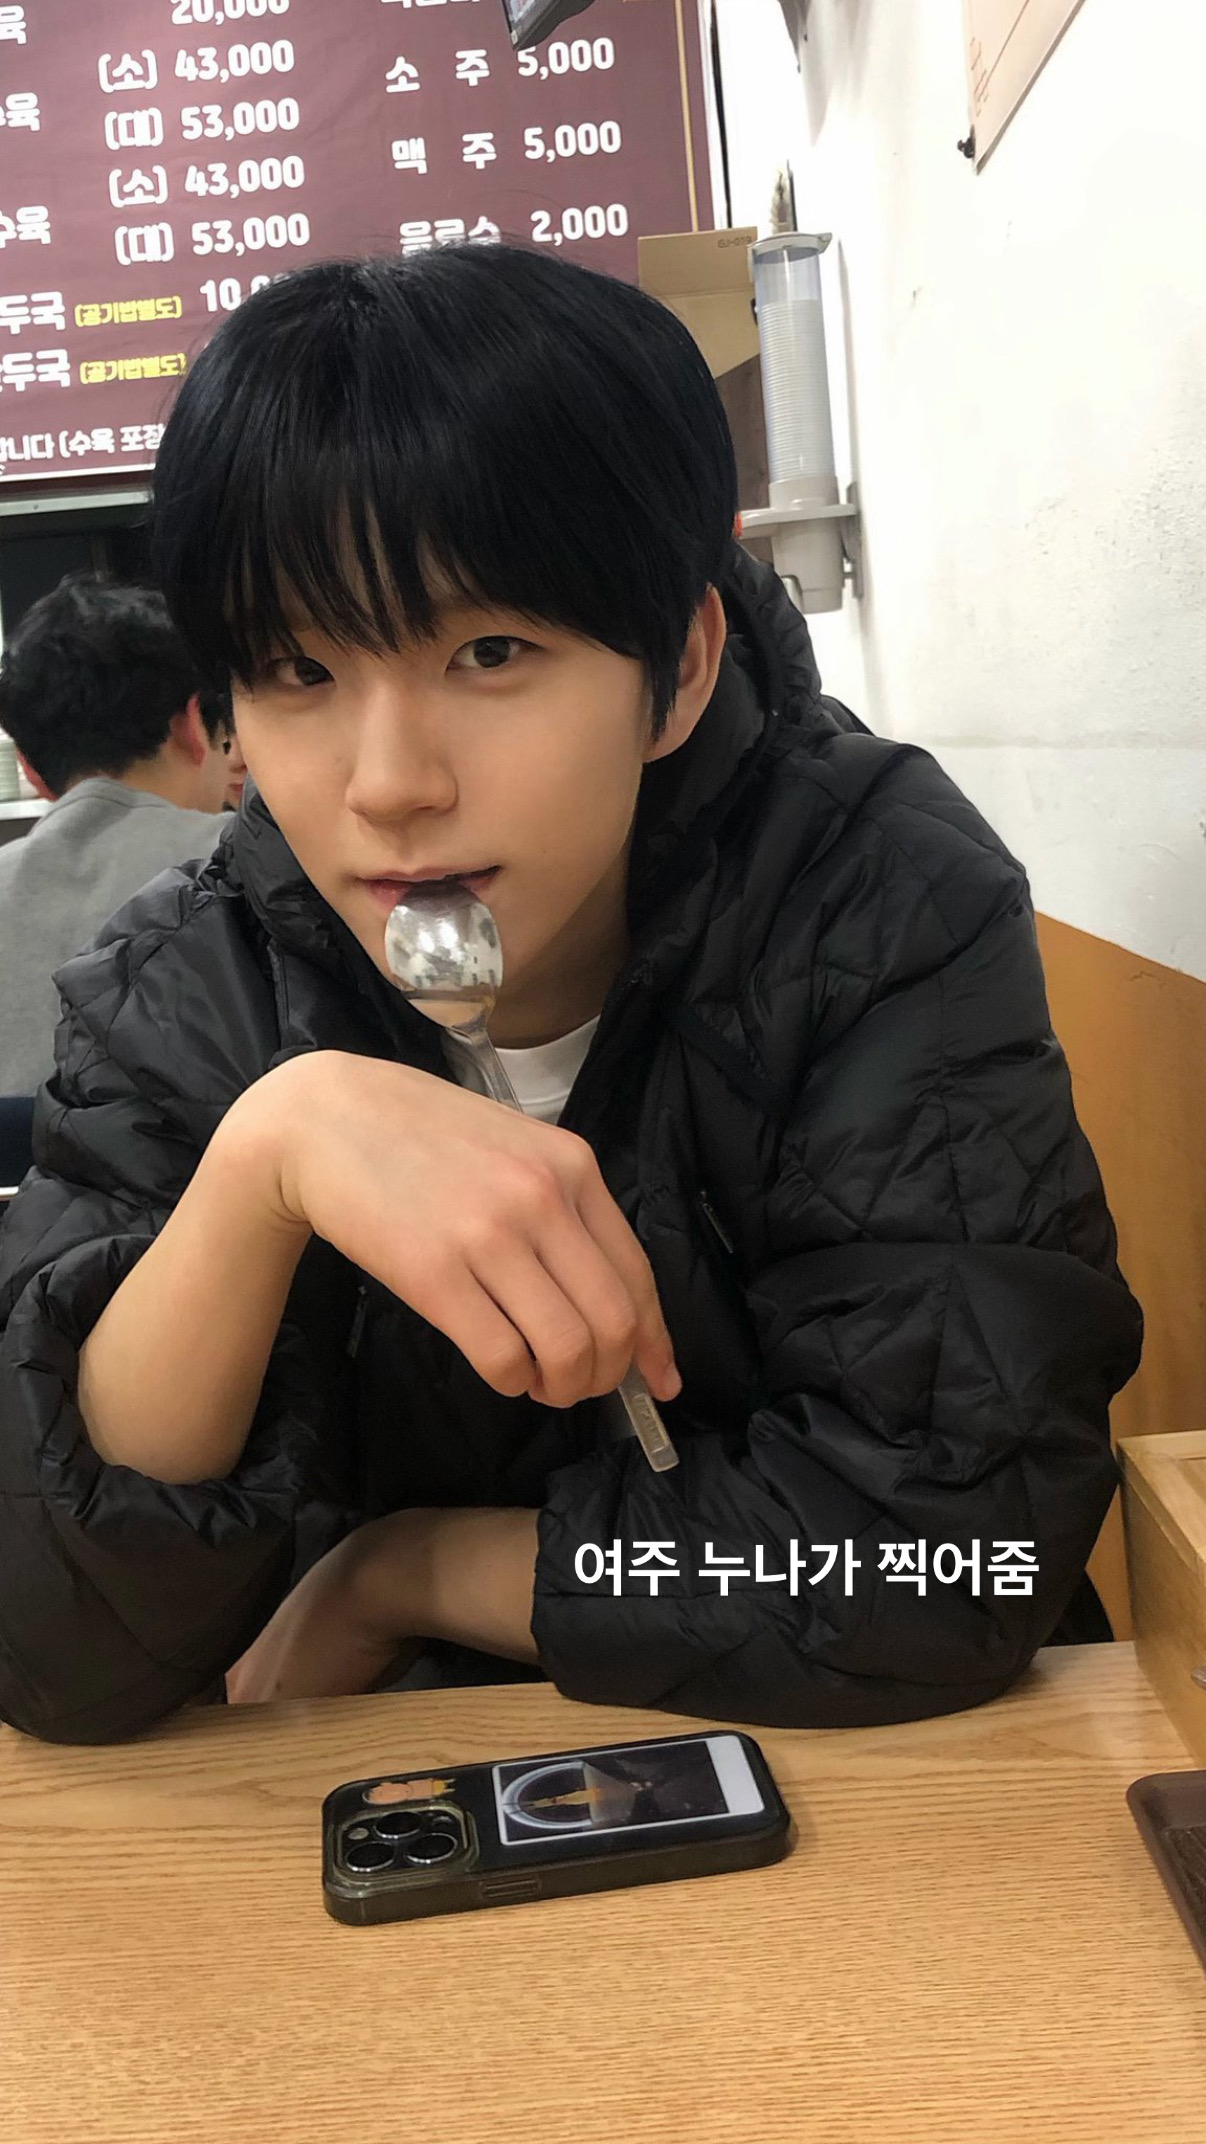
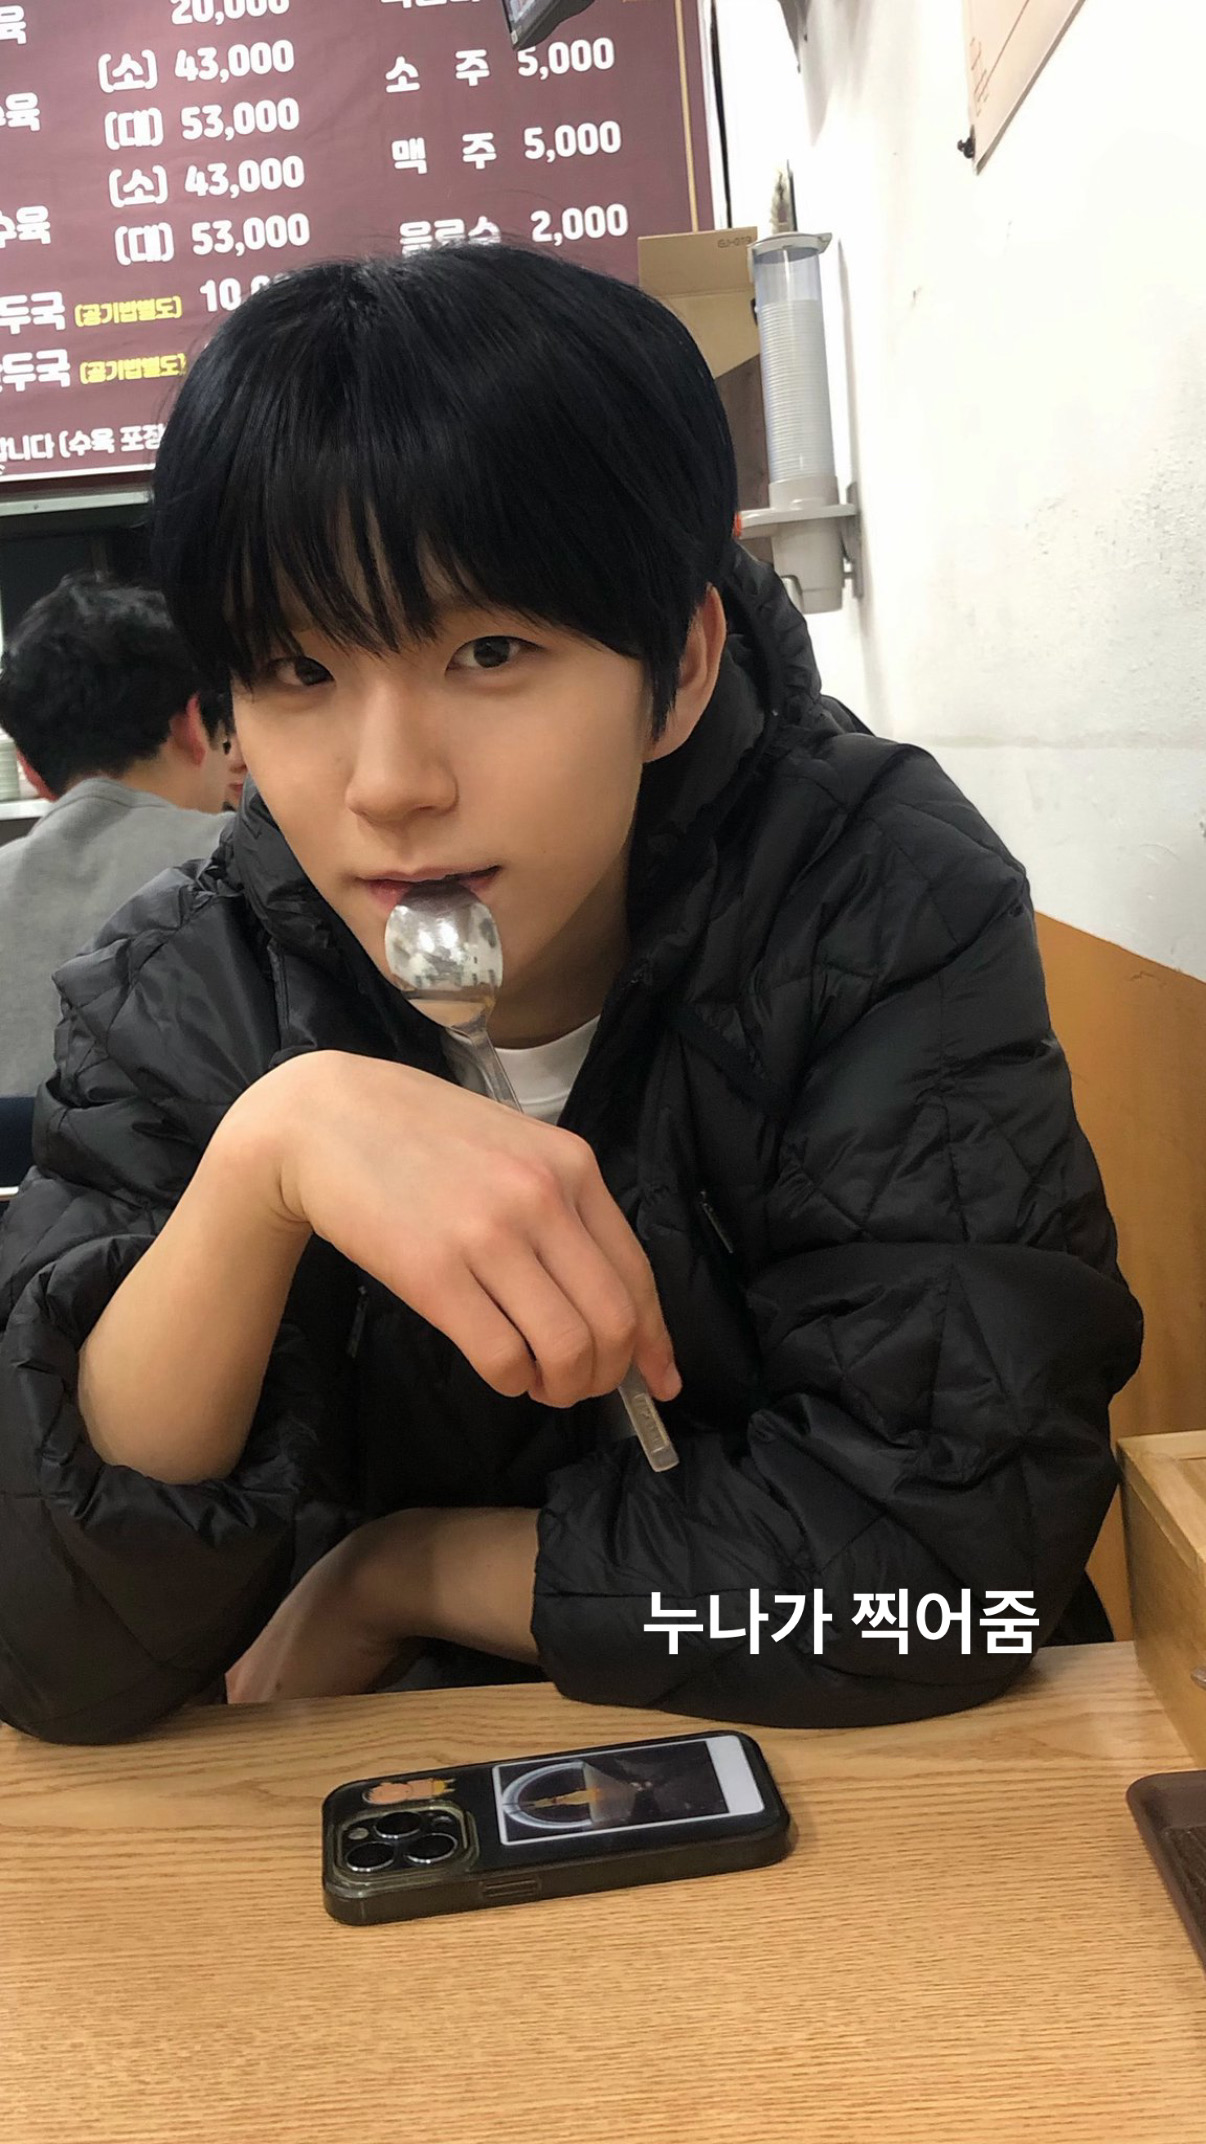
Replace Daeyoung day 5 first story photo and remove third

Changed region(s): [[0.4602, 0.7188, 0.859, 0.7812]]

diff --git a/components/instagram/instagram-data.ts b/components/instagram/instagram-data.ts
@@ -123,9 +123,8 @@ STORIES_BY_DAY[DAEYOUNG_TAG_DAY] = [
   {
     ...story(daeyoung, '1시간', {
       images: [
-        { src: '/stories/daeyoung-day5-1.jpg', alt: '국밥집에서 숟가락을 문 채 정면을 보는 대영, "여주 누나가 찍어줌" 문구' },
+        { src: '/stories/daeyoung-day5-1.jpg', alt: '국밥집 메뉴판 아래에서 검은 패딩 차림으로 숟가락을 문 채 정면을 보는 대영, "누나가 찍어줌" 문구' },
         { src: '/stories/daeyoung-day5-2.jpg', alt: '국밥집 메뉴판 아래에서 숟가락을 물고 옆을 보는 대영' },
-        { src: '/stories/daeyoung-day5-3.jpg', alt: '커튼 앞에서 흑백 래글런 티셔츠를 입고 살짝 웃는 대영의 셀카' },
       ],
     }),
     afterWork: true,
